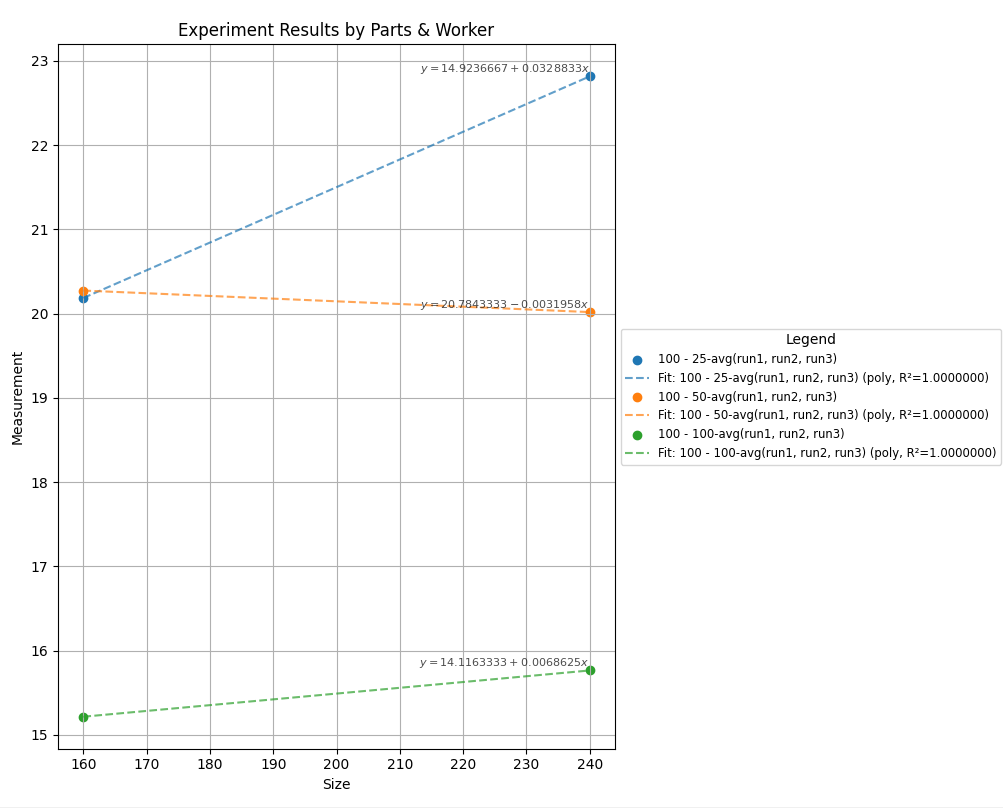
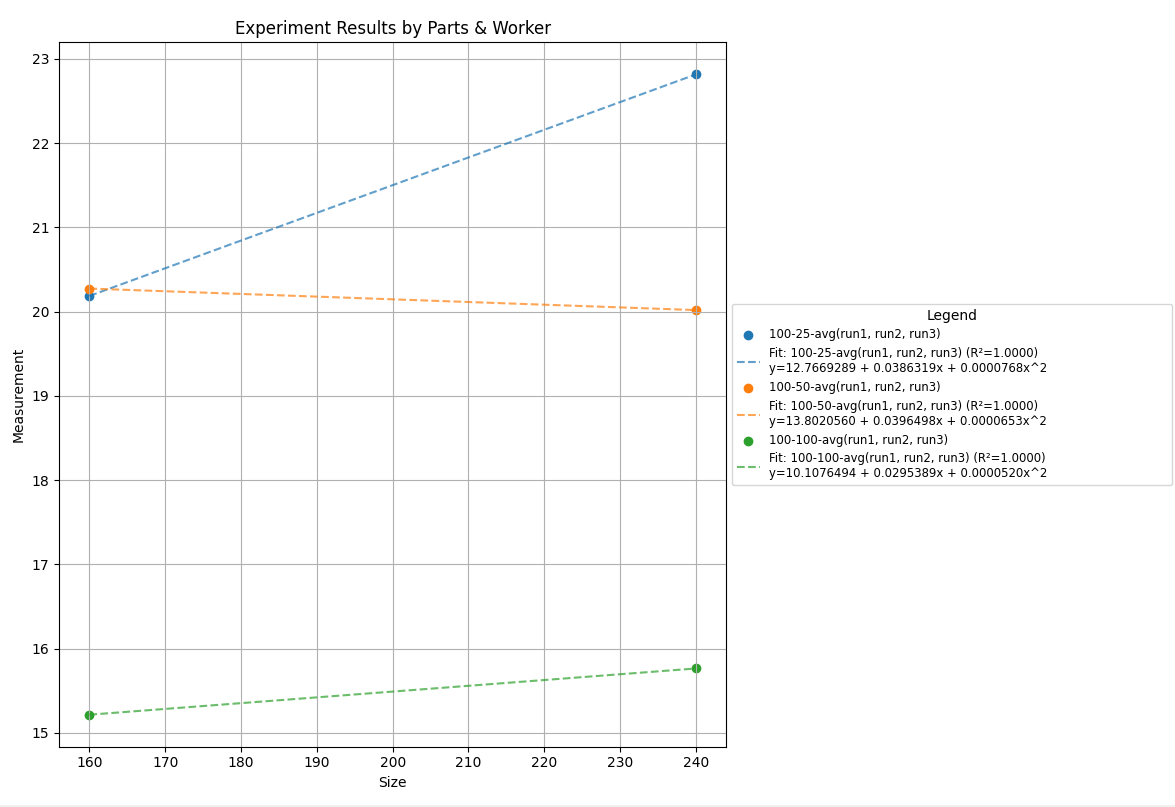
added screenshots

diff --git a/MESSREIHEN/graphing.py b/MESSREIHEN/graphing.py
@@ -12,7 +12,7 @@ def logisticFunction(x, L, k, x0):
 
 def plotExperimentData(csvFile, startIndex=0, endIndex=None, pointsOnly=False,
                         runColumns=None, polyDegree=2, averageRuns=False,
-                        regressionType="poly"):
+                        regressionType="poly", selectedSizePerPart=None):
     # LOAD CSV-FILE
     df = pd.read_csv(csvFile)
     
@@ -38,17 +38,22 @@ def plotExperimentData(csvFile, startIndex=0, endIndex=None, pointsOnly=False,
     
     df = df.dropna(subset=["size"])
     
-    # grouping by parts and worker
-    groups = list(df.groupby(["parts", "worker"]))
+    df["size_per_part"] = (df["size"] ** 2) / df["parts"]
+    
+    if selectedSizePerPart is not None:
+        df = df[df["size_per_part"].isin(selectedSizePerPart)]
+    
+    groups = list(df.groupby(["size_per_part"]))
+    #groups = list(df.groupby(["parts", "worker"]))
     
     if endIndex is None:
         endIndex = len(groups)
     selectedGroups = groups[startIndex:endIndex]
     
-    plt.figure(figsize=(12,8))
+    plt.figure(figsize=(14,8))
     
-    for (parts,worker), group in selectedGroups:
-        labelBase = f"{parts} - {worker}"
+    for (sizePerPart), group in selectedGroups:
+        labelBase = f"{sizePerPart}"
         
         if averageRuns:
             x=group["size"].values
@@ -97,7 +102,7 @@ def plotExperimentData(csvFile, startIndex=0, endIndex=None, pointsOnly=False,
     
     plt.xlabel("Size")
     plt.ylabel("Measurement")
-    plt.title("Experiment Results by Parts & Worker")
+    plt.title("Experiment Results by Chunksize")
     plt.legend(
         loc="center left",
         bbox_to_anchor=(1.0, 0.5),
@@ -123,8 +128,6 @@ def fitAndPlotRegression(xClean, yClean, regressionType, polyDegree, label):
             
             xSorted = np.sort(xClean)
             ySortedFit = fitFn(xSorted)
-            plt.plot(xSorted, ySortedFit, linestyle="--", linewidth=1.5, alpha=0.7,
-                     label=f"Fit: {label} (poly, R²={rSquared:.7f})")
                      
             equationTerms = []
             for j, coef in enumerate(coeffs[::-1]):
@@ -138,6 +141,9 @@ def fitAndPlotRegression(xClean, yClean, regressionType, polyDegree, label):
                 else:
                     equationTerms.append(f"{coef:.7f}x^{power}")
             equation = " + ".join(equationTerms).replace("+ -", "- ")
+            
+            plt.plot(xSorted, ySortedFit, linestyle="--", linewidth=1.5, alpha=0.7,
+                     label=f"Fit: {label} (R²={rSquared:.4f})\ny={equation:<70}")
         else:
             p0 = [np.max(yClean), 1, np.median(xClean)]
             params, _ = curve_fit(logisticFunction, xClean, yClean, p0=p0, maxfev=10000)
@@ -150,15 +156,13 @@ def fitAndPlotRegression(xClean, yClean, regressionType, polyDegree, label):
             
             xSorted = np.sort(xClean)
             ySortedFit = fitFn(xSorted)
-            plt.plot(xSorted, ySortedFit, linestyle="--", linewidth=1.5, alpha=0.7,
-                    label=f"Fit: {label} (logistic, R²={rSquared:.7f})")
                     
             L, k, x0 = params
             equation = f"{L:.7f} / (1 + exp(-{k:.7f}(x - {x0:.7f})))"
+            
+            plt.plot(xSorted, ySortedFit, linestyle="--", linewidth=1.5, alpha=0.7,
+                    label=f"Fit: {label} (R²={rSquared:.4f})\ny={equation}")
         
-        textX = xSorted[-1]
-        textY = ySortedFit[-1]
-        plt.text(textX, textY, f"$y = {equation}$", fontsize=8, ha="right", va="bottom", alpha=0.7)
     except Exception as e:
         print(f"Failed to fit {regressionType} regression for {label}: {e}")
 
@@ -173,6 +177,7 @@ if __name__ == "__main__":
     parser.add_argument("--average-runs", action="store_true", help="Plot the average of all selected runs instead of each run individually")
     parser.add_argument("--regression-type", choices=["poly", "logistic"], default="poly",
                         help="Type of regression to fit: 'poly' or 'logistic' (default: poly)")
+    parser.add_argument("--select-size-per-part", nargs="+", type=float, help="List of specific chunksizes to include")
     
     args = parser.parse_args()
     
@@ -184,5 +189,6 @@ if __name__ == "__main__":
         runColumns=args.runs,
         polyDegree=args.poly_degree,
         averageRuns=args.average_runs,
-        regressionType=args.regression_type
+        regressionType=args.regression_type,
+        selectedSizePerPart=args.select_size_per_part
     )
